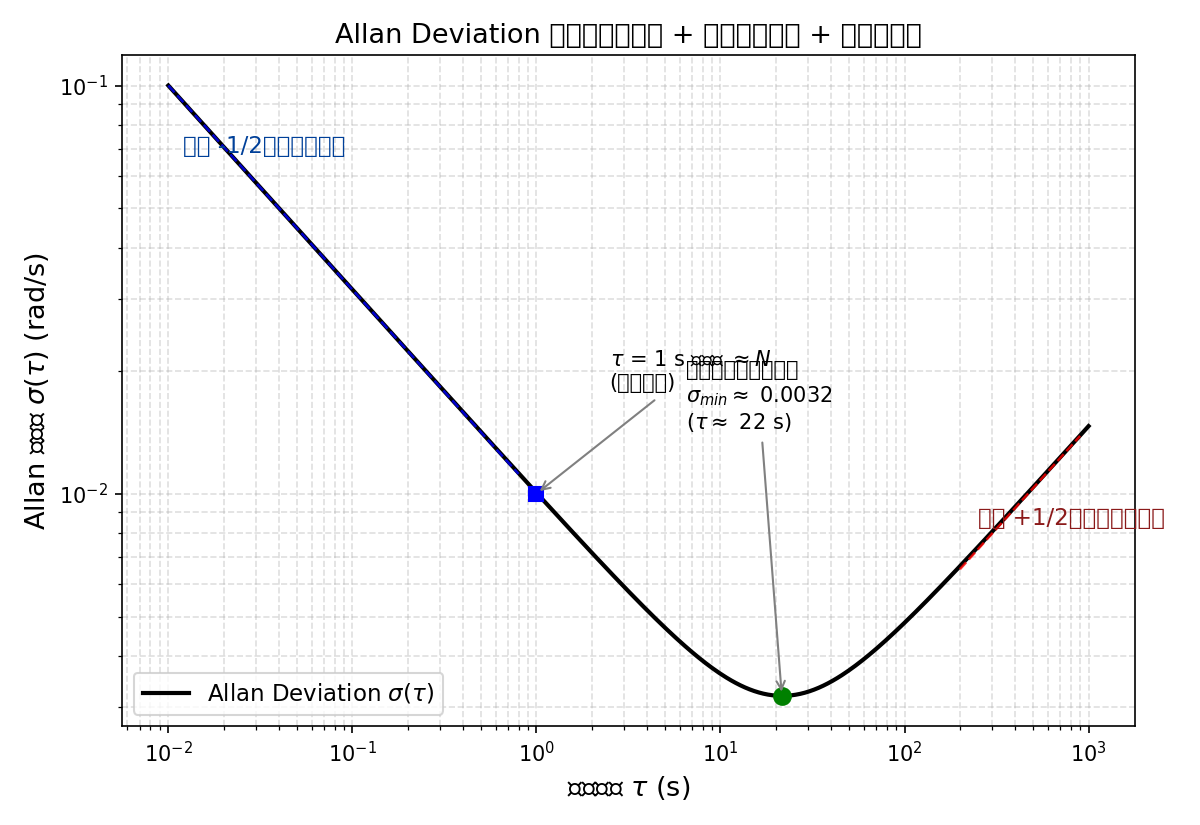
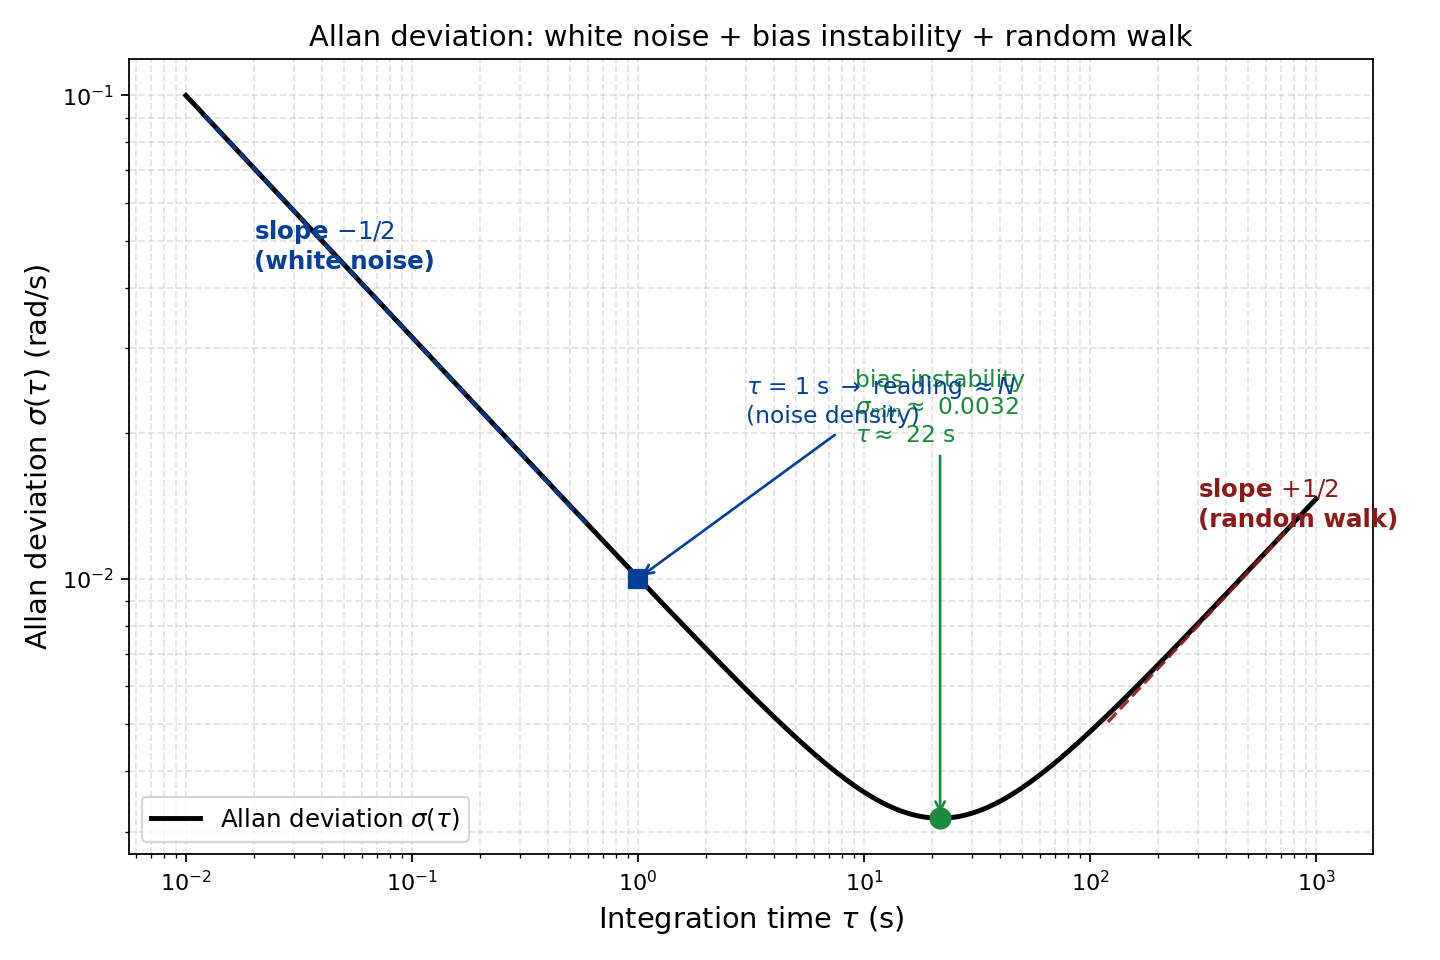
文章修复：Allan 图改英文标注（matplotlib 中文显示方块）+ 恢复引导句 + 图注 <em>
- 图内文字全英文（slope -1/2 white noise / +1/2 random walk / bias instability / noise density）
- 恢复'实际曲线大致长这样'引导句（替换 mermaid 时丢失）
- 图注改用 <em> 标签（markdown 斜体在公式段落后不渲染）

diff --git a/blog/articles/imu-noise-allan-variance/index.md b/blog/articles/imu-noise-allan-variance/index.md
@@ -389,11 +389,11 @@ $$
 
 把不同 $\tau$ 算出来的 $\sigma(\tau)$ 画在双对数坐标上（横轴 $\tau$，纵轴 $\sigma(\tau)$），得到经典的 Allan 曲线：
 
-![Allan Deviation 曲线（真实模型合成：白噪声 + 零偏不稳定性 + 随机游走）](allan-deviation.png)
-
-*图中黑色实线为按白噪声 $\sigma(\tau)=N/\sqrt{\tau}$、零偏不稳定性（常数项）与随机游走 $\sigma(\tau)=K\sqrt{\tau/3}$ 合成的 Allan 曲线（$N=0.01$，$K=0.0008$），蓝色虚线为 $-1/2$ 斜率参考，红色虚线为 $+1/2$ 斜率参考，绿点为谷底。*
-
 实际曲线大致长这样：
+
+![Allan deviation curve (synthesized from white noise + bias instability + random walk)](allan-deviation.png)
+
+<em>黑色实线为按白噪声 $\sigma(\tau)=N/\sqrt{\tau}$、零偏不稳定性（常数项）与随机游走 $\sigma(\tau)=K\sqrt{\tau/3}$ 三个模型叠加合成的 Allan 曲线（$N=0.01$，$B=0.0015$，$K=0.0008$）。蓝色虚线为 $-1/2$ 斜率参考（白噪声段），红色虚线为 $+1/2$ 斜率参考（随机游走段），绿点为谷底（零偏不稳定性），蓝色方块为 $\tau=1$ s 处读数</em>
 
 ```
 log σ(τ)
